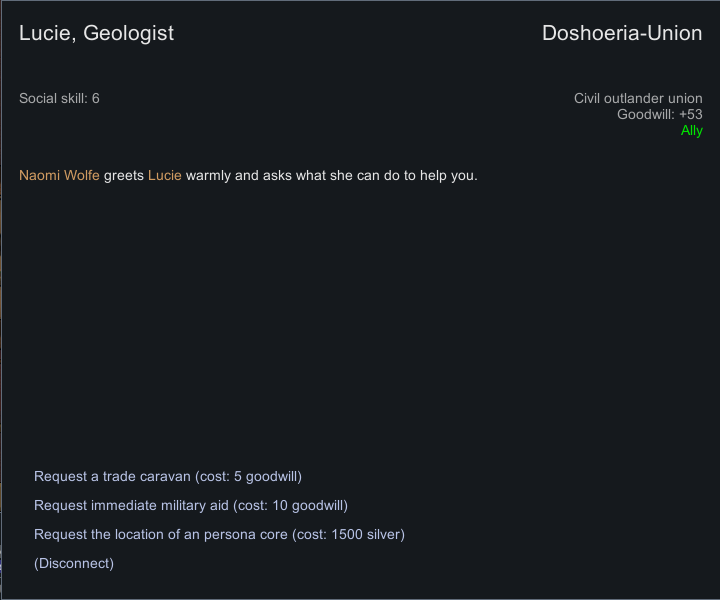
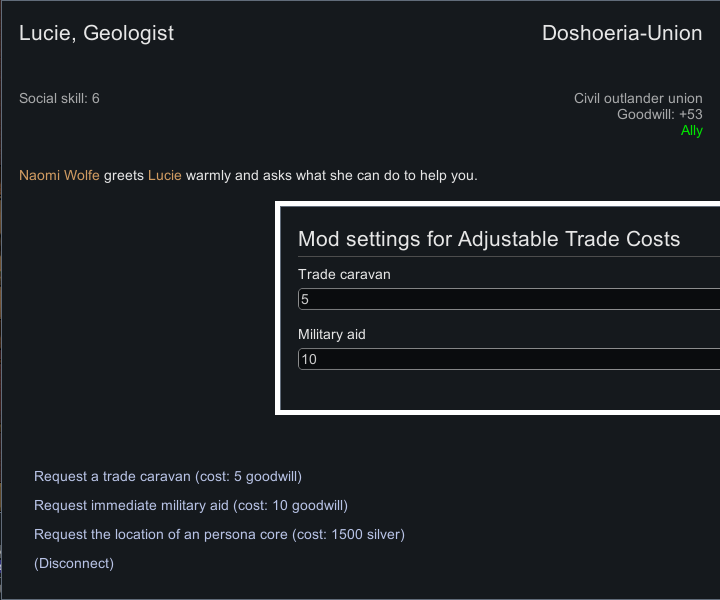
updated about.xml, added notice in mod settings to restart the game

Changed region(s): [[0.3667, 0.33, 1.0, 0.69], [0.4278, 0.45, 0.55, 0.48]]

diff --git a/Source/AdjustableTradeCosts/AdjustableTradeCosts.cs b/Source/AdjustableTradeCosts/AdjustableTradeCosts.cs
@@ -12,12 +12,12 @@ namespace AdjustableTradeCosts
 {
     public class TradeCostsSettings : ModSettings
     {
-        public int tradeCaravanCost = 15;
+        public int tradeCaravanCost = 5;
         public int militaryAidCost = 25;
 
         public override void ExposeData()
         {
-            Scribe_Values.Look(ref tradeCaravanCost, "tradeCaravanCost", 15);
+            Scribe_Values.Look(ref tradeCaravanCost, "tradeCaravanCost", 5);
             Scribe_Values.Look(ref militaryAidCost, "militaryAidCost", 25);
             base.ExposeData();
         }
@@ -45,6 +45,7 @@ namespace AdjustableTradeCosts
             listingStandard.Label("Military aid".Translate());
             listingStandard.TextFieldNumeric(ref settings.militaryAidCost, ref militaryAidCost);
             listingStandard.Gap();
+            listingStandard.Label("Please note: Rimworld must be restarted for the changes to take effect".Translate());
             listingStandard.End();
             base.DoSettingsWindowContents(inRect);
         }
